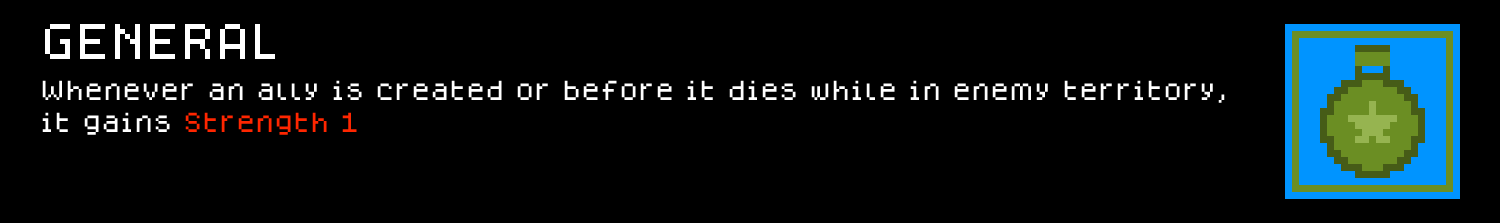
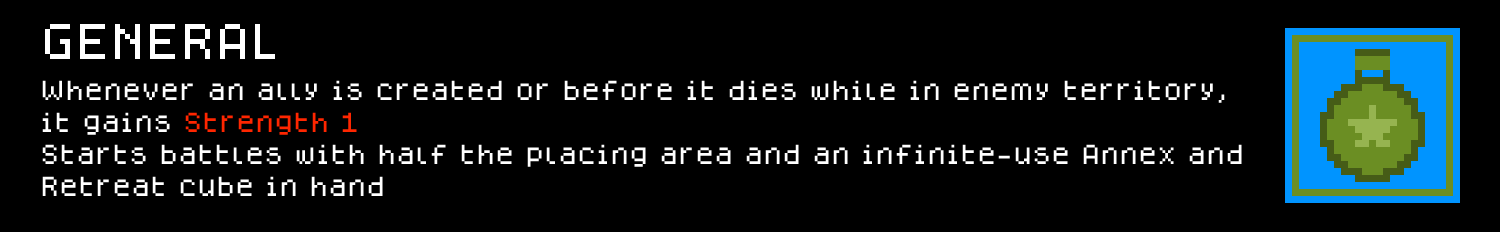
General Perk Changed / Claim & retreat Added

diff --git a/.claude/skills/cube-chaos-scripting/references/gotchas-grepped.md b/.claude/skills/cube-chaos-scripting/references/gotchas-grepped.md
@@ -36,3 +36,5 @@ conversion (TOKEN→IDENT).
 - **`Cooldown DOUBLE Action` (`ModdingInfo.txt:276`) had zero usage precedent anywhere in the base game or any mod in this repo until confirmed here (2026-07-27)** — wraps a single `Action`, gating it so repeat triggers within the given duration are ignored. Real working example: the Voidling mod's `Temple_The_Void` (`Voidling_Cubes.c.txt`), `AfterACubeDies If IsNeutral Culprit Cooldown DoubleConstant 1 GenerateXMana DoubleConstant 1` — parsed and loaded clean. The duration argument is plain seconds via `DoubleConstant N` (not a `TimeConstant`-wrapped value), matching the same convention already established for `EveryXSeconds` (this same mod's `VoidNova` uses `EveryXSeconds DoubleConstant 5`). Still unconfirmed: the exact reset semantics (whether the cooldown timer starts counting from when the gated action last actually ran, vs. from every attempted trigger regardless of gating) — untested in actual play, only parse-verified so far.
 - **`EveryXTimes DOUBLE Action` and `XTimes DOUBLE Action` are two distinct, both-real productions** (`ModdingInfo.txt:254` and `:261` respectively) — not a typo of each other and not interchangeable by assumption. Neither has a confirmed real usage anywhere in this repo as of 2026-07-27 (grepped, zero hits for either), so which one is semantically correct for "repeat this Action N times" (trigger-level periodic repetition vs. a one-shot repeated-N-times action) is still unverified — don't assume swapping one for the other silently fixes a parse error if something else in the same chain is actually broken (real incident: a `Both GainAbilityStacking ABILITY DOUBLE ...` chain threw `CANT READ DOUBLE XTimes`/`CANT READ DOUBLE EveryXTimes` identically under both names, because the real bug was `GainAbilityStacking` missing its second argument upstream — see this file's `GainAbilityStacking` entry above — not the repeat-wrapper's name).
 - **Re-granting an already-held `GenericStacking` ability via `GainAbility`/`GainRandomAbilityOfCube` (copying a live ability *value*, not calling `GainAbilityStacking` with an explicit number) DOES merge into the existing stack rather than creating a second, separately-tracked instance — user-confirmed in actual play (2026-07-26), not just inferred from the `GenericStacking`-vs-`GenericConstant` distinction documented elsewhere in this file.** The Voidling mod's `True_Void` carries a custom `VoidExpansionX` (`Counter GenericStacking`) stat-holder, occasionally re-granted to itself via `GainRandomAbilityOfCube Test` (which expands to `GainAbility (ARandomAbilityOfCubeWhich GenericCube True)` — a value-copy, not `GainAbilityStacking`); the user observed the ability's own stack count climbing over a battle rather than multiple separate "Void Reach 1" lines appearing. **What's still unconfirmed: the exact growth curve** — since `ARandomAbilityOfCubeWhich` picks the ability's *current* live value and `GainAbility` presumably adds that picked value to the existing stack, repeated picks could plausibly add a flat amount each time or compound (each pick adding whatever the stack has already grown to, i.e. doubling) — not yet distinguished empirically. If a future ability depends on knowing which, watch the exact numbers across 2-3 consecutive picks in a real battle rather than assuming linear growth.
+- **For a `BelongsTo: CLASS`/`SPECIES` perk's own "do something for MYSELF at the start of every battle" effect (grant a starting hand cube, run a one-time-per-battle computation over my own board state), use plain `Ability: AtTheStartOfTheBattle`, not `WorldAbility: AtTheStartOfTheBattle` — they are NOT interchangeable, confirmed by a real non-functional-in-play incident (2026-07-27), not just a parse difference.** Every real class in the base game grants its per-battle starting cube via the identical pattern, `Ability: AtTheStartOfTheBattle Both AddCubeToHandOfThis FreeCopy CubeConstant <X> RemoveThisAbility` (`Characters/Classes/*.c.txt`, all 10+ classes checked) — never `WorldAbility:`, and never `AddCubeToHandOfFactionInfinitly`/`AddCubeToHandOfFaction ... FactionOfCube Caster`. The General mod's new class-perk additions (a battle-start placement-zone-halving computation plus two hand-grants for `Claim`/`Retreat`) were first written as `WorldAbility: AtTheStartOfTheBattle` using `FactionOfCube Caster` throughout (to mean "my own side") and `AddCubeToHandOfFactionInfinitly CUBE FactionOfCube Caster` for the grants — this parsed with zero errors/warnings and looked structurally identical to real `WorldAbility:` precedent (`Main/NeutralPerks.c.txt`'s `Map_Compression`, the curses in `Main/Curses.c.txt`), but **user-confirmed in actual play: neither the halving nor the hand-grants ever happened**, while the same perk's pre-existing plain `Ability:` chains (the Strength-1-in-enemy-territory bonus) worked correctly the whole time. Every real `WorldAbility:` precedent that could be found either uses `Caster` purely as a scratch-variable holder with no faction check at all (`Map_Compression`), or is a curse checking `Victim`/`Target`'s faction, never `Caster`'s own (curses by nature target "the enemy," so they never needed "my own side" logic) — meaning there was never actually a confirmed real precedent of `WorldAbility:` + `FactionOfCube Caster` meaning "the perk owner," it was an unverified extrapolation from `Ability:`-context behavior. Switching all four affected lines from `WorldAbility:` to plain `Ability:` (keeping every other token identical, including `FactionOfCube Caster`) and switching the two hand-grants to `AddCubeToHandOfThis FreeCopy CubeConstant <X> RemoveThisAbility` fixed both effects, confirmed via the same real playtest. **Rule of thumb: `WorldAbility:` is for curses/neutral/global-scope effects that don't need "my own side" faction logic; a class/species's own self-directed per-battle behavior belongs on plain `Ability:`, even for `AtTheStartOfTheBattle`/`EveryXSeconds`-style periodic triggers that aren't reacting to a specific board event.**
+- **`RemoveThisAbility` on an `Ability:`/`WorldAbility:` line does NOT persist across battles — it only suppresses re-triggering within the current battle. A `PERK:`'s `Ability:` chains are re-evaluated fresh from the static `.c.txt` definition every single battle, so anything "removed" via `RemoveThisAbility` is back and fully active again next battle.** This directly contradicts an earlier (wrong) version of this same entry, which claimed a self-removing `AtTheStartOfTheBattle Both RemoveThisAbility ChangeCampaignVariable <NAME> DoubleConstant 1` fires "exactly once ever." **Real incident, the General mod (2026-07-27): this exact pattern was used to register one stack of a class perk into `GENERAL_FRONTLINE_STACKS`, intended to add +1 once per run** — instead it added +1 *every single battle* (user-observed in actual play: the effect it drove compounded battle over battle, 1/2 → 1/4 → 1/8 of the board, instead of staying fixed at 1/2). Re-reading the real precedent this was copied from (`Curse_Of_Shields`) shows why it looked right but wasn't: that curse's "`+100` via a `RemoveThisAbility`-guarded `WorldAbility`" is paired with a *separate* `WorldAbility: AfterEndOfTheBattle SetCampaignVariable ENEMY_SHIELDS DoubleConstant 0` that resets the variable to 0 at the end of every battle — so its "+100 at battle start" is genuinely meant to re-fire every battle (100 fresh shield HP per battle), and the `RemoveThisAbility` there is just a same-battle re-trigger guard, never evidence of true once-per-run persistence. **There is no confirmed way to make an `Ability:`/`WorldAbility:` trigger fire only once for the whole run.** The real one-time-per-acquisition mechanism is **`ObtainAction:`** — it fires exactly once, when the perk itself is gained (class selection, chest pickup, etc.), never again on subsequent battles, confirmed by dozens of real base-game examples (`ObtainAction: ChangeCampaignVariable <NAME> DoubleConstant N`, e.g. `Main/Perks.c.txt:971`, `Main/GoldenPerks.c.txt:122`, `Characters/Species/Moil.c.txt:63`, and this exact perk's own pre-existing `ObtainAction: AddCubeToInventory CubeConstant Bunker` lines). **For a `PERK:`-level effect that needs to "stack" across potentially multiple independent sources** (the base perk plus some future separate upgrade/synergy perk), use `ObtainAction: ChangeCampaignVariable <NAME> DoubleConstant 1` on each contributing perk instead — genuinely fires once per acquisition, not once per battle. The actual per-battle *effect* that reads the accumulated count (`GetCampaignVariable <NAME>`) stays a separate, always-active `Ability: AtTheStartOfTheBattle` (recomputed fresh every battle from the live count, no `RemoveThisAbility` involved at all) — see the territory-halving idiom in `references/targeting-movement-board.md` for the full worked example (General mod's `GENERAL_FRONTLINE_STACKS`), now fixed to use `ObtainAction:` for the registration half.

diff --git a/.claude/skills/cube-chaos-sprite-art/SKILL.md b/.claude/skills/cube-chaos-sprite-art/SKILL.md
@@ -22,7 +22,7 @@ Two standing constraints while researching: **base-game sprite sheets are read-o
 
 Sheet dimensions = `tile_size * grid_dim`, where `grid_dim = ceil(sqrt(number_of_CUBE:_or_PERK:_definitions_in_the_matching_.txt_file))`. The sheet must be square. Icons are cropped in the order the `CUBE:`/`PERK:` blocks appear in the txt file (top to bottom), row-major. Extra unused grid cells are fine and normal (real game files often have far more cells than currently-defined content — that's expected headroom, not a bug).
 
-**Adding a new `CUBE:`/`PERK:` block anywhere except the end of the file shifts every later block's slot — even when the grid doesn't need to resize.** Slot assignment is pure file order, so inserting a new block between two existing ones (e.g. "put the new cube right after its thematic sibling" — a reasonable-looking place to put it in the `.txt`) pushes every subsequent block's slot index up by one, while their actual pixel tiles stay exactly where they were. The result isn't a load error — it's every displaced cube/perk silently showing the *previous* one's old art, one slot down the chain, with the last real slot now empty and whatever was drawn into the (assumed-last) new slot showing up on the wrong entry instead. Real incident, this mod (2026-07-25): a new `Hellstorm` `CUBE:` was inserted right after its thematic sibling `Brimstone` (not at the file's end) in `Unholy_Cubes.c.txt`, while its icon was drawn assuming it would be the *last* block (i.e. the last free grid cell) — caught by the user in actual play ("Plague Ritual has the dragon egg image"), confirmed via the preview cards showing `Hellstorm`'s card with `Plague_Ritual`'s real green pentagram and `Blood_Totem`'s card with the freshly-drawn meteor icon. **Fix used: relocate the new block's *text* to the end of the file** (matching the slot its art was already drawn into) rather than relocating five tiles' worth of pixels — cheaper and lower-risk whenever the new content was drawn assuming an append-at-the-end slot. The general rule: **a new `CUBE:`/`PERK:` block's file position must match the grid slot its art is drawn into, always** — either append the block at the end (simplest, matches "next free slot" every time) or, if it must go elsewhere for readability, work out its real resulting slot index first and draw/relocate pixels for every block that shares or comes after that slot.
+**Adding a new `CUBE:`/`PERK:` block anywhere except the end of the file shifts every later block's slot — even when the grid doesn't need to resize.** Slot assignment is pure file order, so inserting a new block between two existing ones (e.g. "put the new cube right after its thematic sibling" — a reasonable-looking place to put it in the `.txt`) pushes every subsequent block's slot index up by one, while their actual pixel tiles stay exactly where they were. The result isn't a load error — it's every displaced cube/perk silently showing the *previous* one's old art, one slot down the chain, with the last real slot now empty and whatever was drawn into the (assumed-last) new slot showing up on the wrong entry instead. Real incident, this mod (2026-07-25): a new `Hellstorm` `CUBE:` was inserted right after its thematic sibling `Brimstone` (not at the file's end) in `Unholy_Cubes.c.txt`, while its icon was drawn assuming it would be the *last* block (i.e. the last free grid cell) — caught by the user in actual play ("Plague Ritual has the dragon egg image"), confirmed via the preview cards showing `Hellstorm`'s card with `Plague_Ritual`'s real green pentagram and `Blood_Totem`'s card with the freshly-drawn meteor icon. **Recurred a second time, 2026-07-27** — General's `Claim`/`Retreat` `CUBE:` blocks were inserted right before their thematic neighbor `Bomber` in `General_Cubes.c.txt` (done via the `cube-chaos-scripting` skill alone, sprite-art never consulted since the task was framed as pure DSL work), shifting every cube after them by 2 and making `Retreat` display `Bomb`'s art — same failure shape, different session. This is exactly why the "append at the end, always" rule now also lives in `cube-chaos-scripting`'s own "Block formats" section, not just here — the mistake happens at CUBE:/PERK: authoring time, which doesn't always route through this skill. **Fix used: relocate the new block's *text* to the end of the file** (matching the slot its art was already drawn into) rather than relocating five tiles' worth of pixels — cheaper and lower-risk whenever the new content was drawn assuming an append-at-the-end slot. The general rule: **a new `CUBE:`/`PERK:` block's file position must match the grid slot its art is drawn into, always** — either append the block at the end (simplest, matches "next free slot" every time) or, if it must go elsewhere for readability, work out its real resulting slot index first and draw/relocate pixels for every block that shares or comes after that slot.
 
 **An `IsUpgradeFrom:` upgrade perk needs no *unique* sprite of its own — it visually reuses its base perk's icon in-game.** Because of that, **the base game never mixes upgrade perks into the same `.c.txt` file as the regular perks they upgrade — upgrades always live in their own dedicated, sprite-less file.** Confirmed exhaustively: `Characters/Classes/Priest.c.txt`/`Warrior.c.txt`/`Engineer.c.txt` (and every other class file checked) contain **zero** `IsUpgradeFrom:` lines — every one of those classes' upgrades instead lives in the single shared `Characters/Classes/ZUpgradeClassPerks.c.txt`, which has no matching `Sprites/*.c.png` at all. Same pattern for species (`Characters/Species/UpgradeSpeciesPerks.c.txt`) and for the general reward-perk pool (`Main/Perks.c.txt`, 389 perks, 0 upgrades, vs. the separate sprite-less `Main/UpgradePerks.c.txt`). **This is the pattern to follow for new mod content, not an edge case** — put every `IsUpgradeFrom:` perk in a `<ModPrefix>_UpgradePerks.c.txt` alongside the regular one, with no matching sprite sheet. This means a mod's "real" sprite sheet only ever has to fit real, iconned perks (`grid_dim = ceil(sqrt(count of non-upgrade PERK: blocks))`), with zero upgrade-shaped gaps to reason about, ever.
 

diff --git a/.claude/skills/cube-chaos-scripting/references/targeting-movement-board.md b/.claude/skills/cube-chaos-scripting/references/targeting-movement-board.md
@@ -34,6 +34,16 @@ Not IsEqual PlacabilityOfPosition <POSITION> FactionOfCube <reference-cube>
 
 For "is there an enemy *anywhere* in this direction, not just adjacent" (as opposed to `CubeInDirectionFromCube`, which only reads the immediately-touching tile), use the skip-searching `TheFirstCubeInDirectionFromPositionWhich DIRECTION POSITION BOOLEAN` — it scans outward past non-matching cubes and returns the nearest one that satisfies the predicate (`Test` inside the `BOOLEAN`, same binding convention as other `...Which` searches), e.g. `TheFirstCubeInDirectionFromPositionWhich South PositionOfThis IsEnemyToCaster Test`. Guard the result with `CubeExists` before using it, same as any other cube search that can come up empty.
 
+**The `FactionOfCube Caster` territory idiom above is confirmed reliable inside a `CUBE:`'s own trigger and a `PERK:`'s event-reactive `Ability:` — but do NOT assume it "just works" the same way inside a `WorldAbility:` block without a specific reason to.** See `references/gotchas-grepped.md`'s `WorldAbility:`-vs-`Ability:` entry for the full incident: a `WorldAbility: AtTheStartOfTheBattle` computing territory boundaries via `FactionOfCube Caster` parsed clean but silently did nothing in real play, while the identical token sequence under plain `Ability: AtTheStartOfTheBattle` worked immediately. For a class/species perk's own self-directed per-battle territory logic, reach for `Ability:`, not `WorldAbility:`.
+
+## Scanning/acting on your WHOLE territory (not just checking one position), and finding "which way is forward" without a leader reference
+
+The single-position check above answers "is this one tile mine?" — a different, harder problem is "find every column that's currently mine, and which end of that range is closest to the enemy," needed for any effect that bulk-converts or measures a whole side of the board rather than one tile. Real usage, the General mod's class-perk battle-start territory-halving effect (`GameData/General/General_Perks.c.txt`):
+
+- **Finding the boundary in one pass**: loop `X` from `0` to `MaxWorldX` (a plain counted `SetVariable`+`Until`+`ChangeVariable` loop, the `AddDepthRow`/`Map_Compression` idiom — see those for the loop skeleton), and at each `X` check `IsEqual PlacabilityOfPosition (PositionFromXAndY X 0) (FactionOfCube Caster)`. Track a running count (`GFRONT_N`, unconditional `ChangeVariable +1` on match) plus both a `GFRONT_MAXX` (unconditionally overwritten on every match — trivially ends up as the *last*/highest matching `X`) and a `GFRONT_MINX` (only written the *first* time, guarded by `IsEqual GFRONT_MINX -1` since it starts at a `-1` sentinel) — one full scan gives you the count and both ends of your territory's range for free.
+- **Which end is "forward" (toward the enemy), without needing a leader or any hardcoded side**: don't reach for `ARandomAlliedLeader` for this — **it has zero confirmed real usage anywhere in this repo or the base game, only a bare listing in `ModdingInfo.txt`'s `CUBE:` section**, and was tried first here specifically for this purpose (get a known-mine anchor position), then abandoned when it turned out not to be the actual bug but also never got positively confirmed to work either — treat it as unverified, not proven-safe. The robust, fully-verified alternative needs no leader at all: once the scan above has found `GFRONT_MAXX` (a column *already confirmed to be yours*), compare `XOfPosition (PositionInDirectionFromPosition Forwards (PositionFromXAndY GFRONT_MAXX 0))` against `GFRONT_MAXX` itself — if stepping `Forwards` from your own highest-`X` column increases `X` further, `Forwards` means "increasing `X`" for your faction and `GFRONT_MAXX` is your front edge; if it decreases, `Forwards` means "decreasing `X`" and `GFRONT_MINX` is actually the front edge instead. This reuses `Forwards`'s own confirmed per-faction-relative meaning (see the `East`/`West`-vs-`Forwards`/`Backwards` section above) rather than introducing a second, unverified way to detect "my side."
+- **Stacking a repeated-halving effect safely needs no explicit floor guard, because `RoundedDown` division already provides one.** "Remove half your columns, rounded down, never fewer than 1 remaining" sounds like it needs a special case at the boundary, but doesn't: computing `remaining = remaining - RoundedDown(remaining / 2)` (i.e. `CeilingDiv`) already fixes at `remaining = 1` once reached (`RoundedDown(1/2) = 0`, so `1 - 0 = 1`, stable under further repeats) — applying this update `N` times in a row (`N` = accumulated stacks, read once via `GetCampaignVariable`, looped with a plain counted `Until`) is safe to just repeat blindly without ever checking "are we already at the minimum."
+
 ## `TopPositionAboveCube CUBE` means the top of the WHOLE MAP column, not "the first free tile above this cube's own stack"
 
 Easy to misread from its name alone. Real confirmed behavior (Broker mod, 2026-07-26): `Construction_Site`'s "every 2 minutes create a Skyscraper directly above this" ability was first written as `CreateCubeOnPosition CubeConstant Skyscraper TopPositionAboveCube Caster` — this parses clean and matches the function's one other real precedent in this repo (DJ's `Keyboard`, spawning a Note "at the top of a random enemy's column" via `TopPositionAboveCube <enemy>`), but in actual play every spawned Skyscraper appeared at the *ceiling of the entire map* and fell via gravity down to wherever it landed, "raining from the sky" instead of stacking neatly on top of `Construction_Site`. `TopPositionAboveCube` is the right tool for "drop something onto an enemy's column from above" (its one real precedent), but the wrong tool for "place this on top of my own current stack" — those are different positions unless the column is already full to the map's top edge.

diff --git a/.claude/skills/cube-chaos-mod-setup/SKILL.md b/.claude/skills/cube-chaos-mod-setup/SKILL.md
@@ -82,6 +82,10 @@ Prefix every file with your mod's name (`DJ_Perks.c.txt`, `DJ_Cubes.c.txt`, `DJ_
 
 **`IsUpgradeFrom:` perks belong in their own `<ModPrefix>_UpgradePerks.c.txt`, never mixed into `<ModPrefix>_Perks.c.txt`** — this matches the base game's own convention (`Characters/Classes/ZUpgradeClassPerks.c.txt`, `Main/UpgradePerks.c.txt`, etc. are all separate, sprite-less files) and sidesteps a whole class of sprite-sheet slot-counting bugs. See `cube-chaos-sprite-art`'s upgrade-perk section for the full reasoning — this file needs no matching `Sprites/*.c.png` at all, since an upgrade perk always visually reuses its base perk's icon.
 
+## `CUBE:`/`PERK:` *name* collisions — a different bug from the filename collision above, same silent shape
+
+The filename collision above is about two `.c.txt` files sharing a basename; this is about two `CUBE:`/`PERK:` blocks (in totally differently-named files) sharing the same *name* token — e.g. `CUBE: Claim` in a mod package when the base game already has its own unrelated `CUBE: Claim` (`Main/3GeneralCubes.c.txt`). **Real incident, the General mod (2026-07-27):** a new 0-mana territory-control cube was named `Claim`, not realizing the base game already has a real, obtainable `Claim` (35 mana, "convert the neutral cube below to your faction") in `Main/3GeneralCubes.c.txt`. Every `CubeConstant Claim` reference (the class perk's own hand-grant, in this exact mod) silently resolved to the *base game's* `Claim` instead — no parse error, no load warning, the mod's own `CUBE: Claim` block loaded fine and just was never reachable by name. This is what made it look, from the outside, like the granted cube already had "real art" (it did — it was the base game's fully-illustrated `Claim`, a completely different cube) while behaving nothing like what was written. **Before naming any new `CUBE:`/`PERK:`, grep the whole `GameData` tree for that exact name** (`CUBE: YourProposedName\b` / `PERK: YourProposedName\b`) — scoped per-subfolder (`GameData/Main`, `GameData/Base_Core`, `GameData/Characters`, `GameData/Extra_Mechanics`, plus every other mod folder), not a single whole-tree grep, since this repo's grep tool can silently return zero results when scoped to the full `GameData` directory (the install path's space is the suspected cause — see the debugging-checklist note below). Fixed here by renaming to `Annex`, confirmed collision-free the same way. This check belongs at the same point as picking a new file basename — both are "pick a name, grep first" habits, just checking a different string.
+
 ## The test-and-iterate loop
 
 There is no hot-reload: the game parses all `GameData` content fresh at startup. After every edit:

diff --git a/.claude/skills/cube-chaos-scripting/SKILL.md b/.claude/skills/cube-chaos-scripting/SKILL.md
@@ -21,6 +21,8 @@ Step 3 is what keeps step 1 worth doing. **Never edit `ModdingInfo.txt`/`Modding
 
 ## Block formats
 
+**Default rule, every time: a brand-new `CUBE:`/`PERK:` block goes at the END of its `.c.txt` file, full stop — never inserted next to a "thematic sibling" or wherever reads best.** Sprite-sheet tile assignment is pure file order (see `cube-chaos-sprite-art`'s slot-shifting section for the mechanism), so inserting mid-file silently shifts every later block's sprite onto the wrong entry — no parse error, just wrong icons in play. This has now caused two real incidents (Unholy's `Hellstorm`, and General's `Claim`/`Retreat` — the latter added via this scripting skill alone, without the sprite-art skill ever being consulted, which is exactly why this rule now lives here too, not just there). Only deviate from append-at-the-end if there's an explicit reason content must sit elsewhere, and if so, work out the resulting slot shift and fix every affected tile in the same edit — never leave it for later.
+
 **Cube:**
 ```
 CUBE: Name manacost hp maxhp
